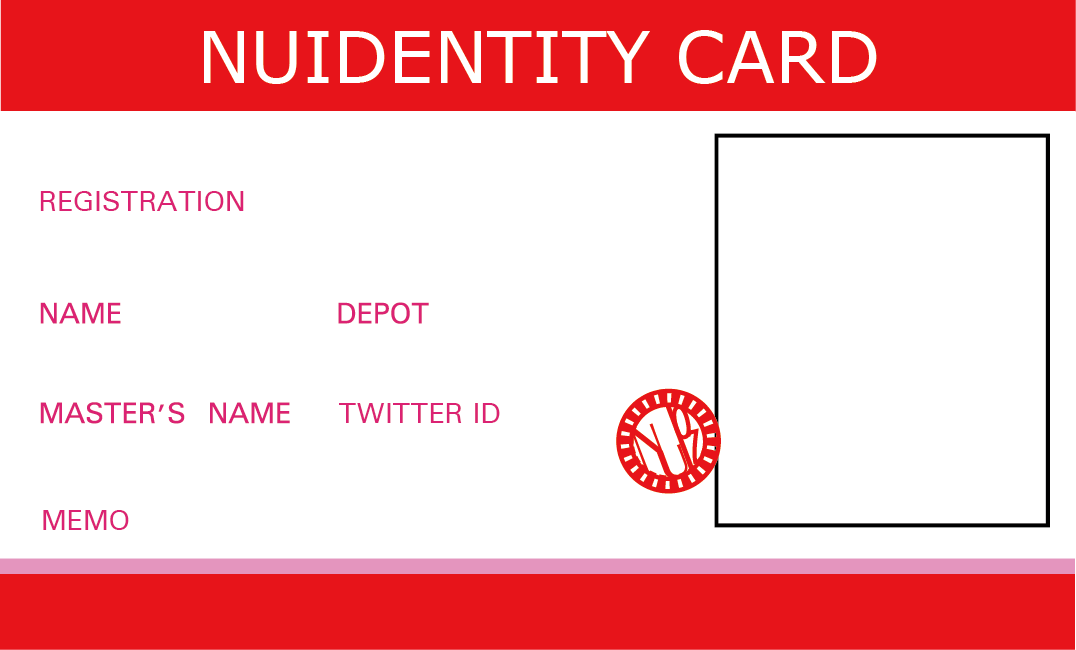
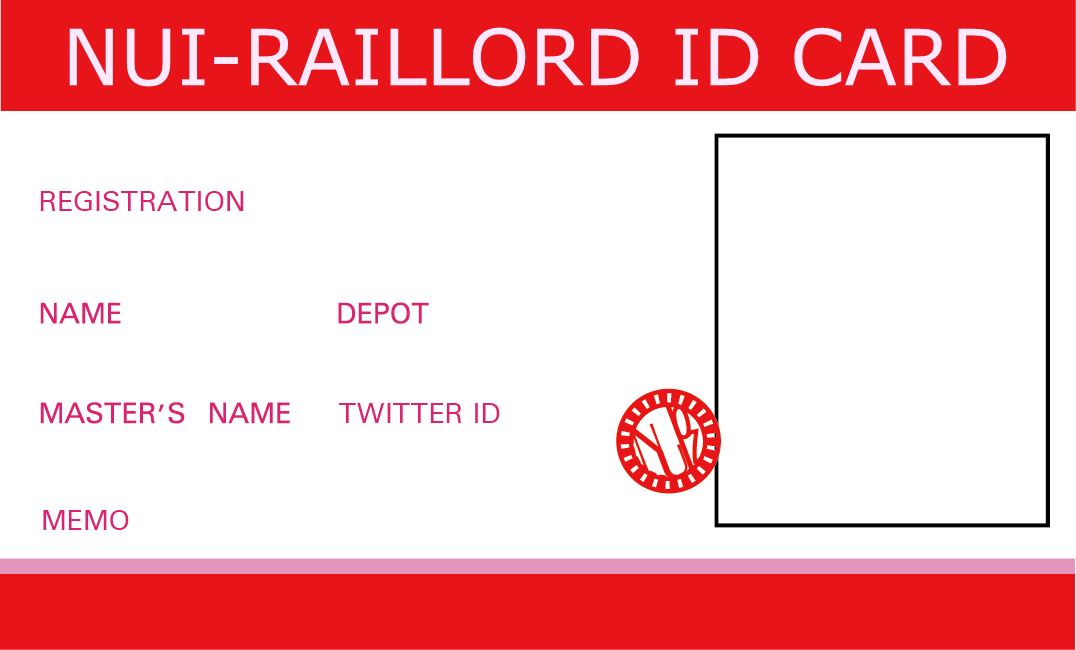
Rewording to prevent potential uncomforts - According to American feedback, `NUIDENTITY` can be easily mistaken for `nude identity` or `nudity` - Both the image templates and the web page titles have been re-worded to resolve this issue - sin_kou_hyou will also be notified about this issue

Changed region(s): [[0.0613, 0.0308, 0.9507, 0.1538]]

diff --git a/nuidentity-card-editor/public/index.html b/nuidentity-card-editor/public/index.html
@@ -24,7 +24,7 @@
       work correctly both with client-side routing and a non-root public URL.
       Learn how to configure a non-root public URL by running `npm run build`.
     -->
-    <title>NUIDENTITY CARD EDITOR</title>
+    <title>NUI-RAILLORD ID CARD EDITOR</title>
   </head>
   <body>
     <noscript>You need to enable JavaScript to run this app.</noscript>
